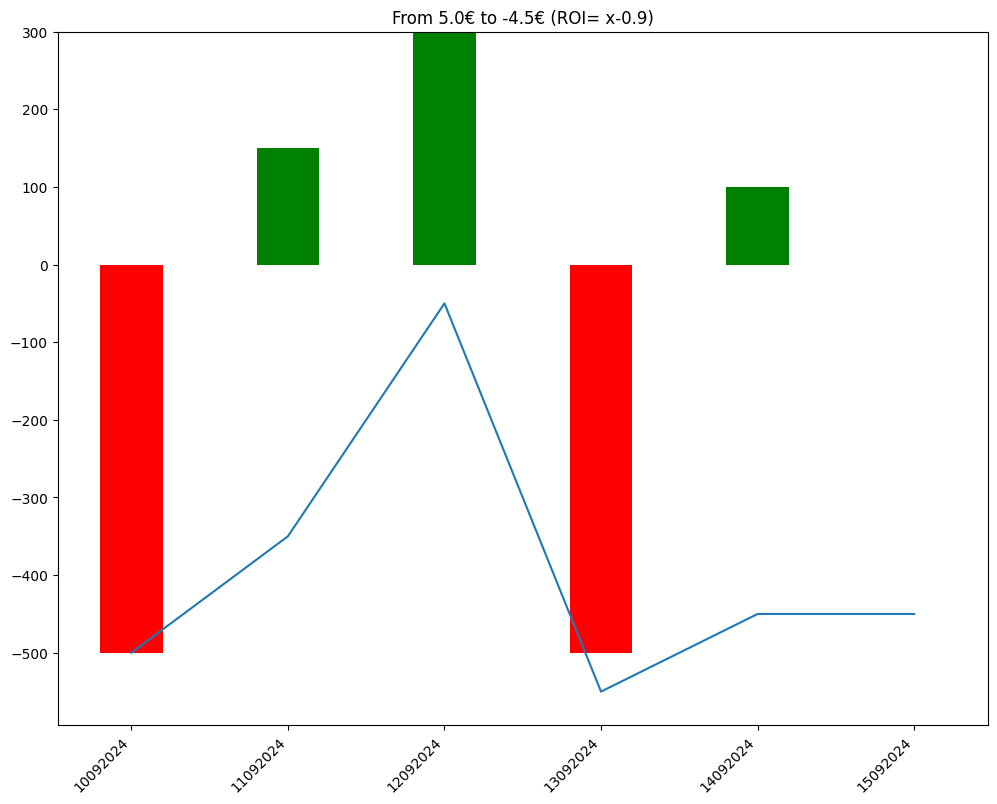
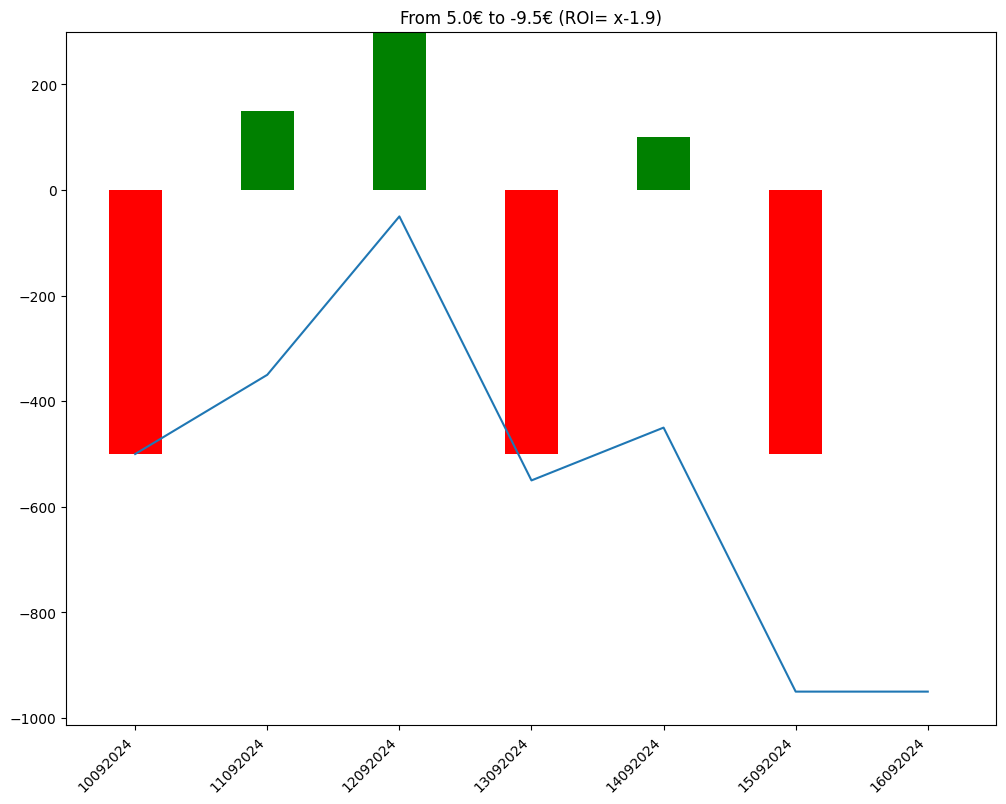
comment from python script

diff --git a/bethistory.html b/bethistory.html
@@ -86,7 +86,8 @@
             En observant la courbe 🤔, on peut avoir une idée visuelle de l'évolution des gains et ainsi évaluer le model utilisé 🧑🏫.
         </p>
         
-        <img src = "/candle.png" alt="candle chart"/><table><tr><td>Chevaux joués</td><td>Gains</td><td>URL Circuits</td></tr><tr><td>2 - MAGIC TUNIS</td><td>0</td><td><a href=https://www.pmu.fr/turf/15092024/r1/c9 target="_blank">https://www.pmu.fr/turf/15092024/r1/c9</a></td></tr>
+        <img src = "/candle.png" alt="candle chart"/><table><tr><td>Chevaux joués</td><td>Gains</td><td>URL Circuits</td></tr><tr><td>6 - BELLAGIO</td><td>0</td><td><a href=https://www.pmu.fr/turf/16092024/r1/c2 target="_blank">https://www.pmu.fr/turf/16092024/r1/c2</a></td></tr>
+<tr><td>2 - MAGIC TUNIS</td><td>-500</td><td><a href=https://www.pmu.fr/turf/15092024/r1/c9 target="_blank">https://www.pmu.fr/turf/15092024/r1/c9</a></td></tr>
 <tr><td>7 - NOTTE A ROMA</td><td>+100</td><td><a href=https://www.pmu.fr/turf/14092024/r2/c2 target="_blank">https://www.pmu.fr/turf/14092024/r2/c2</a></td></tr>
 <tr><td>1 - KISS ME HONEY</td><td>-500</td><td><a href=https://www.pmu.fr/turf/13092024/r5/c5 target="_blank">https://www.pmu.fr/turf/13092024/r5/c5</a></td></tr>
 <tr><td>3 - BENIMARU</td><td>+300</td><td><a href=https://www.pmu.fr/turf/12092024/r1/c4 target="_blank">https://www.pmu.fr/turf/12092024/r1/c4</a></td></tr>
